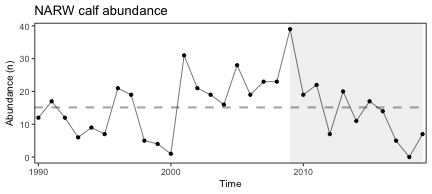
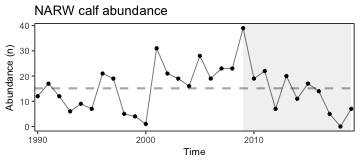
doc orientation and protected species

Changed region(s): [[0.0, 0.0, 1.0, 0.9259], [0.4889, 0.8951, 0.5806, 0.9877]]

diff --git a/docs/20200407_MAFMC_Gaichas.html b/docs/20200407_MAFMC_Gaichas.html
@@ -211,11 +211,30 @@ A subset of objectives are currently under investigation. We plan to extend this
 ---
 ## Document Orientation
 .pull-left[
+Spatial scale
+
 ![:img NEFSC survey strata used to calculate Ecosystem Production Unit biomass, 100%](EDAB_images/EPU_Designations_Map.jpg)
+
+.contrib[
+This year, we mapped trawl survey strata to Ecological Production Units (EPUs)  
+
+[More information on EPUs](https://noaa-edab.github.io/tech-doc/epu.html)  
+[More information on survey data](https://noaa-edab.github.io/tech-doc/survdat.html)  
+]
 ]
 .pull-right[
-![Aggregate species distribution metrics for species in the Northeast Large Marine Ecosystem.](20200407_MAFMC_Gaichas_files/figure-html/spec-dist-1.png)
+Key to figures
 
+![Aggregate species distribution metrics for species in the Northeast Large Marine Ecosystem.](20200407_MAFMC_Gaichas_files/figure-html/spec-dist-1.png)
+.contrib[
+Trends assessed only for 30+ years: [more information](https://noaa-edab.github.io/tech-doc/trend-analysis.html)
+
+&lt;p style="color:#FF8C00;"&gt;Orange line = significant increase&lt;/p&gt;
+&lt;p style="color:#9932CC;"&gt;Purple line = significant decrease&lt;/p&gt;
+No color line = not significant or too short
+&lt;p style="background-color:#D3D3D3;"&gt;Grey background = last 10 years&lt;/p&gt;
+
+]
 ]
 
 ---
@@ -453,6 +472,40 @@ Splitting out SAFMC, ASMFC removed downward catch diversity trend
 ---
 ## Protected species
 
+.pull-left[
+North Atlantic right whale abundance
+
+![1990-2018 right whale abundance estimates with 95\% credible intervals. These values represent the estimated number of animals alive sometime during the year referenced and NOT at the end of the year referenced. Three known deaths were recorded in 2018, but these deaths were not reflected in the 2018 estimate because those animals were alive sometime during the year. An additional 10 known deaths occurred in 2019.](20200407_MAFMC_Gaichas_files/figure-html/NARW-abundance-1.png)
+
+**New indicator** 
+
+North Atlantic right whale calf births
+
+![Number of North Atlantic right whale calf births, 1990 - 2019.](20200407_MAFMC_Gaichas_files/figure-html/NARW-calf-abundance-1.png)
+
+]
+
+.pull-right[
+Seal population snapshots 
+
+  + ~75,000 harbor seals, trend analysis in progress
+  
+  + 30,000 - 40,000 grey seals in US; 425,000 in Canada and &amp;nearr;
+
+Seal diet studies in progress
+
+Unusual Mortality Events
+
+  + [North Atlantic right whales](https://www.fisheries.noaa.gov/national/marine-life-distress/2017-2020-north-atlantic-right-whale-unusual-mortality-event)  
+  
+  + [Humpback whales](https://www.fisheries.noaa.gov/national/marine-life-distress/2016-2020-humpback-whale-unusual-mortality-event-along-atlantic-coast)  
+  
+  + [Minke whales](https://www.fisheries.noaa.gov/national/marine-life-distress/2017-2020-minke-whale-unusual-mortality-event-along-atlantic-coast)  
+  
+  + [Grey, harbor, hooded, and harp seals](https://www.fisheries.noaa.gov/new-england-mid-atlantic/marine-life-distress/2018-2019-pinniped-unusual-mortality-event-along)
+  
+]
+
 ---
 ## Aggregate fish biomass generally stable
 
@@ -576,21 +629,6 @@ Not added because the previous conceptual model was replaced
 ![Stomach fullness anomaly in the Mid-Atlantic Bight.](20200407_MAFMC_Gaichas_files/figure-html/ma-stomachs-1.png)
 
 Define objectives for this indicator for further refinement.
-
----
-## Memo 21: Right Whale Calves
-
-.center[
-![Number of North Atlantic right whale calf births, 1990 - 2019.](20200407_MAFMC_Gaichas_files/figure-html/NARW-calf-abundance-1.png)
-]
-
-## Memo 22: Distinguish Managed Species
-
-Council-managed species separated in landings plots; see Appendix table.
-
-## Memo 23: Marine Mammal Consumption
-
-Seal diet information added, but inadequate information to estimate consumption.
 
 ---
 ## Forage energy density:
